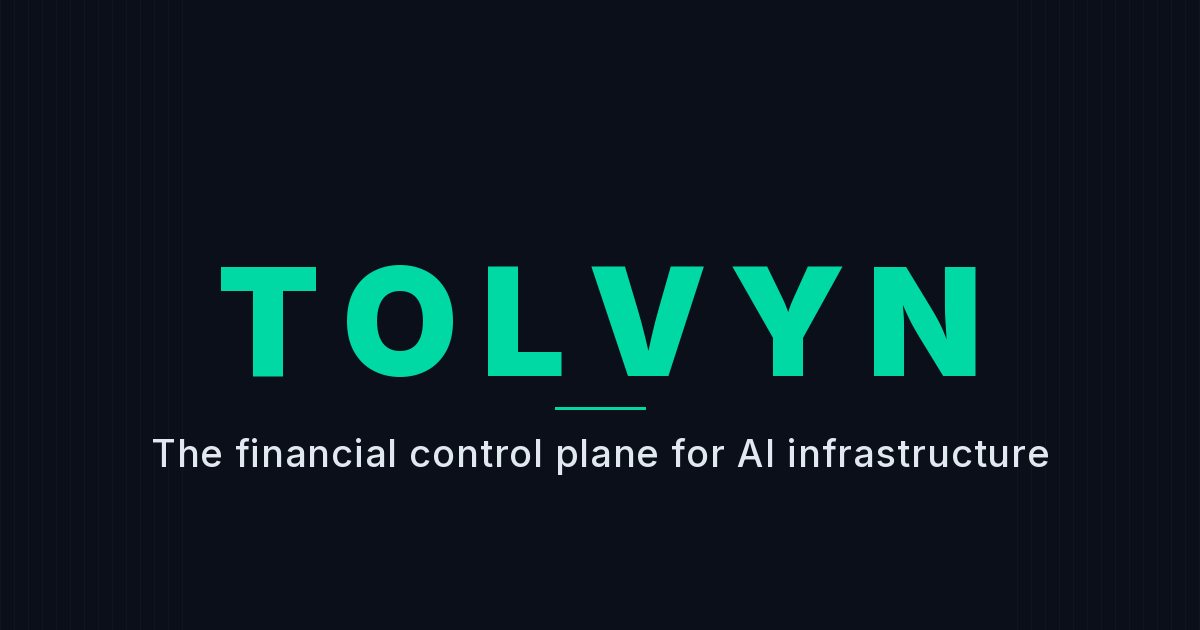
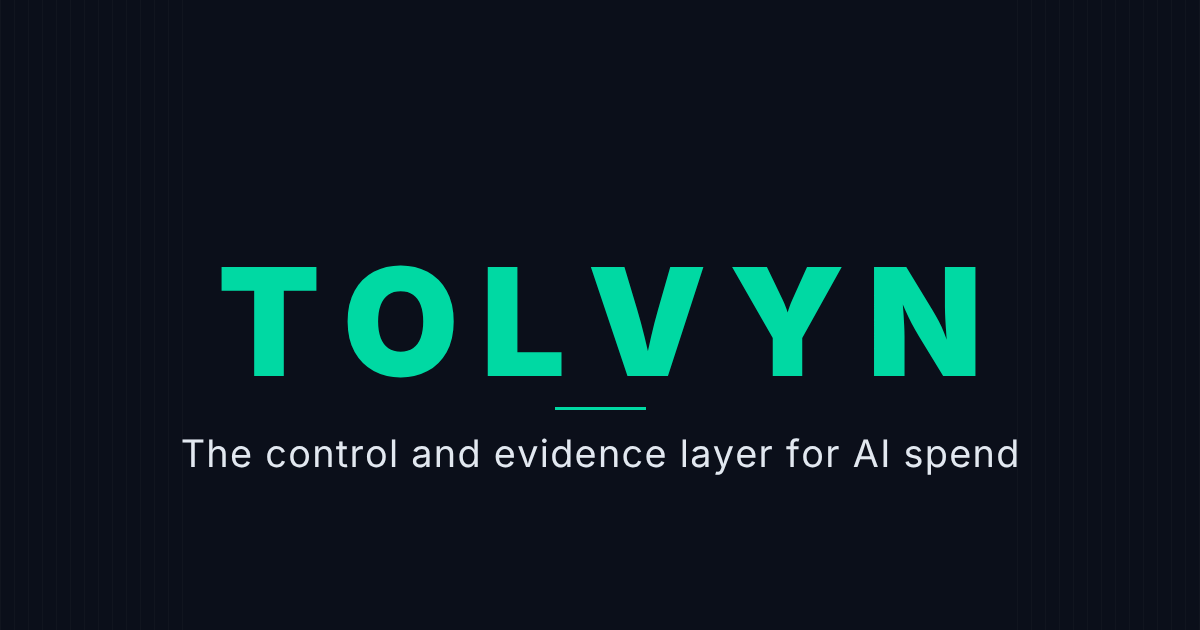
og-image: one design, drawn from the SVG, with the new tagline
og-image.png (the og:image and twitter:image of every page) still read
"The financial control plane for AI infrastructure", and og-image.svg was
a different design that no page used. The SVG now redraws the PNG's design
(navy background, faint vertical lines at both sides, the mint wordmark
and rule, sentence-case tagline) with "The control and evidence layer for
AI spend", and the PNG is rendered from it.

tools/render-og-image renders the SVG at 1200x630 in headless Chromium
with Inter from Google Fonts, and writes nothing if Inter did not load.
With the old tagline, the SVG reproduces the old PNG: background, lines
and rule pixel for pixel, letters within a pixel or two.

Changed region(s): [[0.1233, 0.6937, 0.8942, 0.754], [0.4933, 0.4222, 0.5242, 0.4524]]

diff --git a/assets/brand/README.md b/assets/brand/README.md
@@ -10,7 +10,7 @@
 | `favicon.svg` | Browser tab, bookmarks (scales 16→512px) |
 | `favicon-dark.svg` | Alternate favicon for dark-only contexts |
 | `app-icon.svg` | Source for iOS/Android home screen icons (no corner radius) |
-| `og-image.svg` | Social card for Twitter/X, LinkedIn, Slack previews |
+| `og-image.svg` | Source of `og-image.png`, the social card for Twitter/X, LinkedIn, Slack previews. After changing it, run `python3 tools/render-og-image` and commit both |
 
 ## Colors
 
